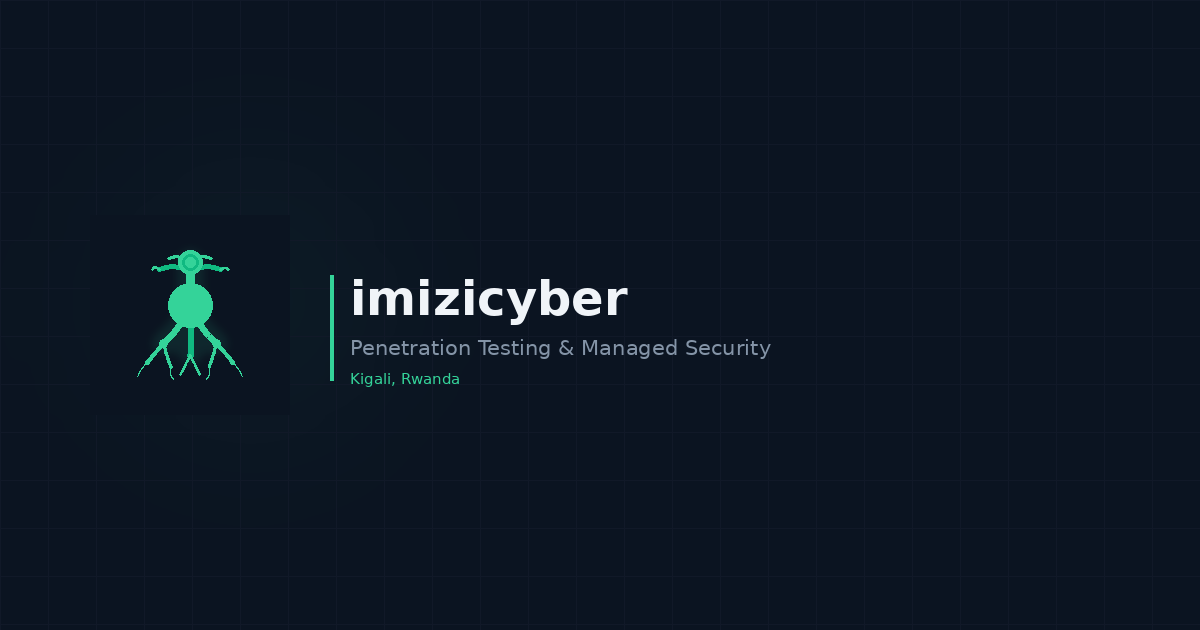
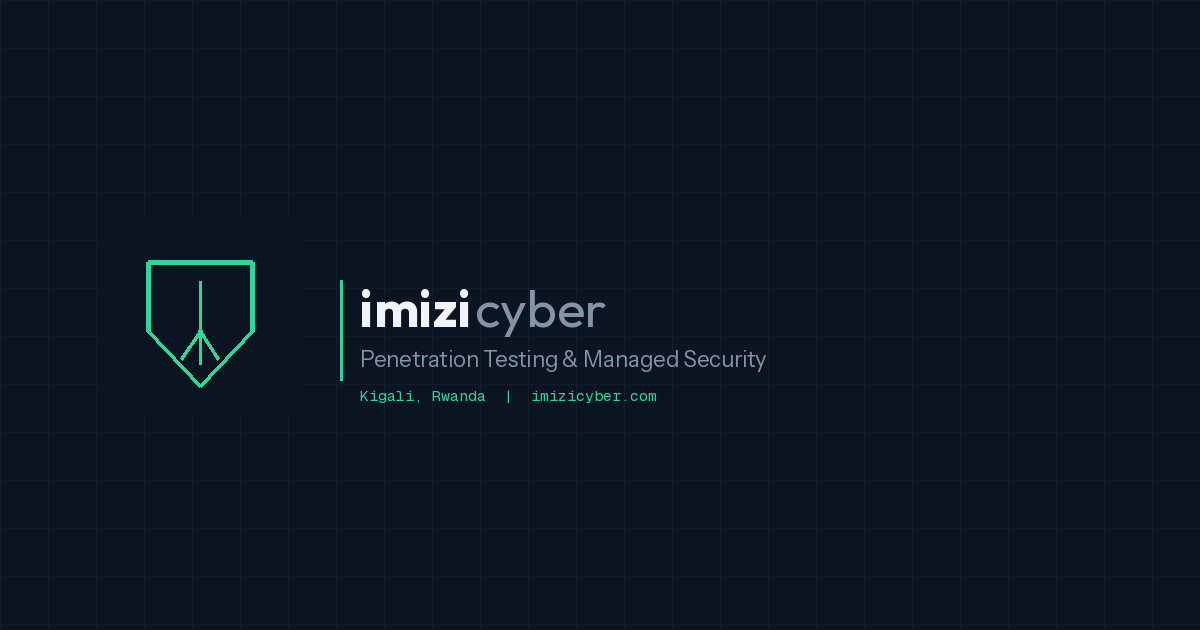
Add files via upload

Changed region(s): [[0.2775, 0.4222, 0.6475, 0.6333], [0.1233, 0.3921, 0.2158, 0.6032]]

diff --git a/index.html b/index.html
@@ -278,23 +278,13 @@ footer{border-top:1px solid rgba(255,255,255,.04);padding:18px 0}
 <div class="w">
 <div class="nav-inner">
   <a href="#" class="logo">
-    <svg viewBox="0 0 32 32" fill="none">
-      <path d="M16 4.5L16 14" stroke="#34d399" stroke-width="2.2" stroke-linecap="round"/>
-      <path d="M16 6.5Q12.5 4 9 6.5" stroke="#34d399" stroke-width="1.3" stroke-linecap="round" fill="none"/>
-      <path d="M16 6.5Q19.5 4 23 6.5" stroke="#34d399" stroke-width="1.3" stroke-linecap="round" fill="none"/>
-      <path d="M16 4.5Q13 2.5 11.5 4" stroke="#34d399" stroke-width=".9" stroke-linecap="round" fill="none" opacity=".45"/>
-      <path d="M16 4.5Q19 2.5 20.5 4" stroke="#34d399" stroke-width=".9" stroke-linecap="round" fill="none" opacity=".45"/>
-      <path d="M16 14Q15 18 10.5 22" stroke="#34d399" stroke-width="1.6" stroke-linecap="round" fill="none"/>
-      <path d="M16 14Q17 18 21.5 22" stroke="#34d399" stroke-width="1.6" stroke-linecap="round" fill="none"/>
-      <path d="M16 14L16 24.5" stroke="#34d399" stroke-width="1.6" stroke-linecap="round"/>
-      <path d="M10.5 22Q8 24 6.5 26.5" stroke="#34d399" stroke-width=".9" stroke-linecap="round" fill="none" opacity=".4"/>
-      <path d="M10.5 22Q11 25 12 27.5" stroke="#34d399" stroke-width=".9" stroke-linecap="round" fill="none" opacity=".4"/>
-      <path d="M21.5 22Q24 24 25.5 26.5" stroke="#34d399" stroke-width=".9" stroke-linecap="round" fill="none" opacity=".4"/>
-      <path d="M21.5 22Q21 25 20 27.5" stroke="#34d399" stroke-width=".9" stroke-linecap="round" fill="none" opacity=".4"/>
-      <path d="M16 24.5Q14.5 27 14 29" stroke="#34d399" stroke-width=".7" stroke-linecap="round" fill="none" opacity=".3"/>
-      <path d="M16 24.5Q17.5 27 18 29" stroke="#34d399" stroke-width=".7" stroke-linecap="round" fill="none" opacity=".3"/>
-      <circle cx="16" cy="14" r="2.2" fill="rgba(52,211,153,.08)" stroke="#34d399" stroke-width="1"/>
-      <circle cx="16" cy="4.5" r="1.6" fill="rgba(52,211,153,.1)" stroke="#34d399" stroke-width=".9"/>
+    <svg viewBox="0 0 100 100" fill="none">
+      <path d="M24 19 L76 19 L76 58 L50 81 L24 58 Z" stroke="#34d399" stroke-width="2.8" fill="none" stroke-linejoin="round"/>
+      <line x1="50" y1="28" x2="50" y2="52" stroke="#34d399" stroke-width="1.6" stroke-linecap="round"/>
+      <line x1="50" y1="52" x2="40" y2="66" stroke="#34d399" stroke-width="1.6" stroke-linecap="round" opacity=".6"/>
+      <line x1="50" y1="52" x2="50" y2="69" stroke="#34d399" stroke-width="1.6" stroke-linecap="round" opacity=".6"/>
+      <line x1="50" y1="52" x2="60" y2="66" stroke="#34d399" stroke-width="1.6" stroke-linecap="round" opacity=".6"/>
+      <circle cx="50" cy="52" r="1.5" fill="rgba(52,211,153,.3)"/>
     </svg>
     <span class="logo-text"><b>imizi</b>cyber</span>
   </a>
